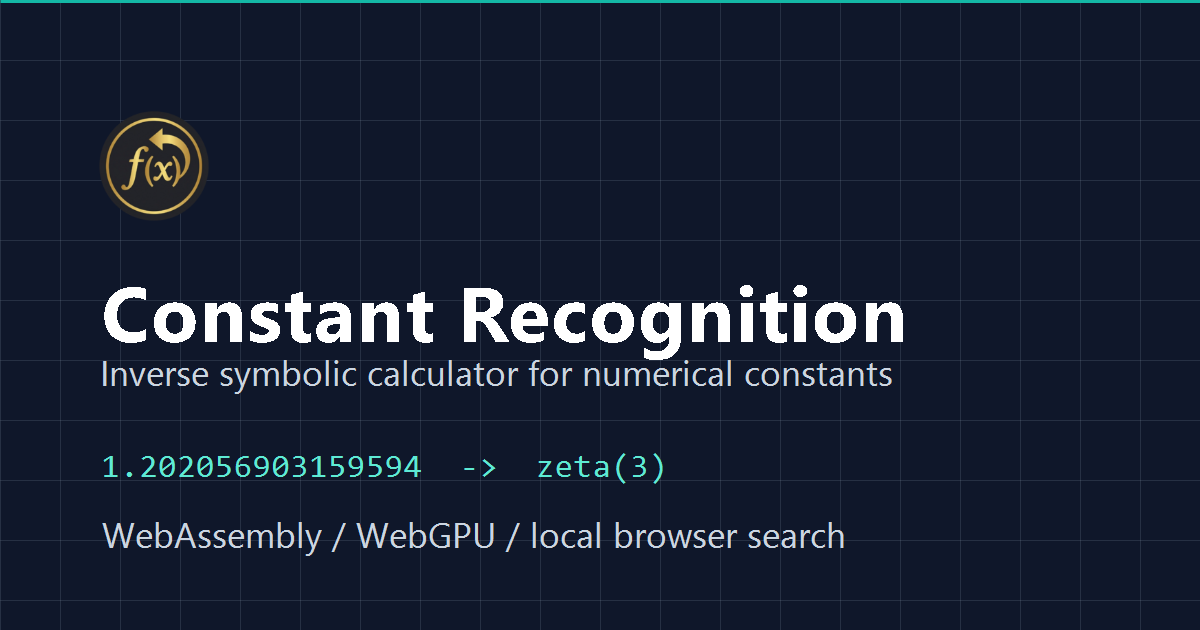
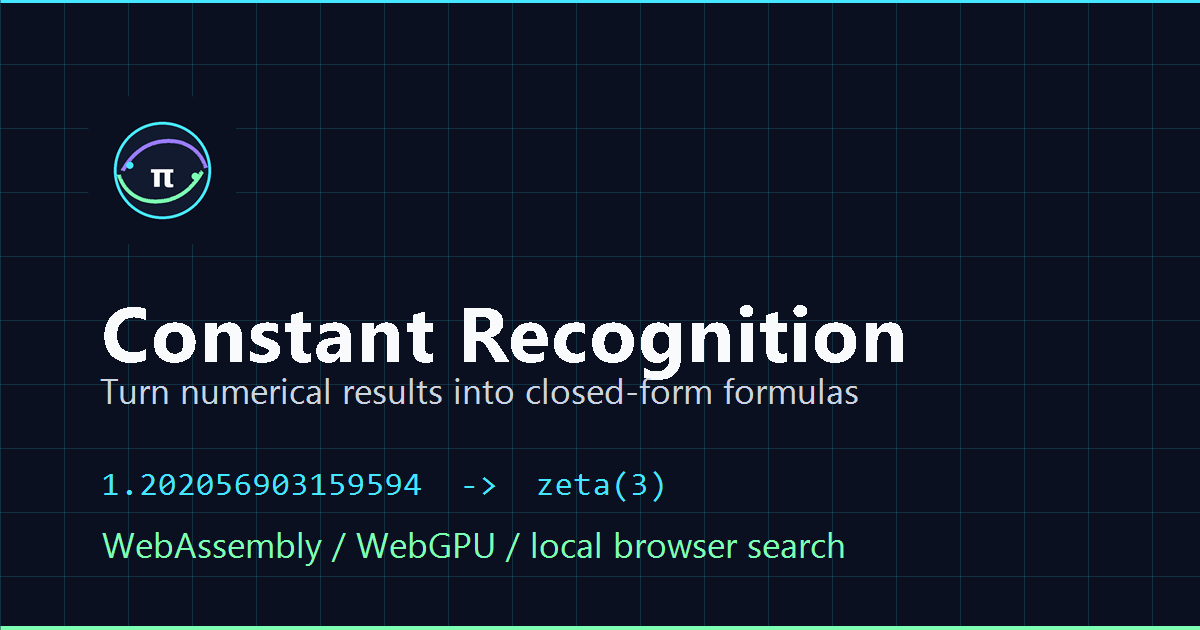
added

diff --git a/calculator_frontend/app/components/Footer.tsx b/calculator_frontend/app/components/Footer.tsx
@@ -7,7 +7,12 @@ export default function Footer() {
       <div className="mx-auto grid max-w-7xl gap-10 md:grid-cols-[1.4fr_1fr_1fr_1fr]">
         <div>
           <div className="mb-4 flex items-center gap-3">
-            <Image src="/favicon-192.png" alt="" width={36} height={36} />
+            <Image
+              src="/constant-recognizer-brand-pack/logo-mark.svg"
+              alt="Constant Recognition logo"
+              width={36}
+              height={36}
+            />
             <h3 className="text-base font-semibold text-slate-950">
               Constant Recognition
             </h3>

diff --git a/calculator_frontend/app/calculator/components/Sidebar.tsx b/calculator_frontend/app/calculator/components/Sidebar.tsx
@@ -144,14 +144,14 @@ export function Sidebar({
           <div className="flex items-center justify-between">
             <div className="flex items-center gap-3">
               <Image
-                src={withBasePath('/cdaaebfdc71641160f831c2a2fb564ce8d081055.png')}
-                alt="Logo" 
+                src={withBasePath('/constant-recognizer-brand-pack/logo-mark.svg')}
+                alt="Constant Recognition logo" 
                 width={40}
                 height={40}
                 className="w-10 h-10 rounded-lg object-cover"
               />
               <div>
-                <h1 className="font-semibold text-gray-900 dark:text-white text-sm">Constant Recognizer</h1>
+                <h1 className="font-semibold text-gray-900 dark:text-white text-sm">Constant Recognition</h1>
                 <p className="text-[10px] text-gray-500">Jagiellonian University</p>
               </div>
             </div>

diff --git a/calculator_frontend/app/components/Navbar.tsx b/calculator_frontend/app/components/Navbar.tsx
@@ -14,8 +14,8 @@ export default function Navbar() {
       <nav className="mx-auto flex h-16 max-w-7xl items-center justify-between px-4 sm:px-6 lg:px-8">
         <Link href="/" className="flex min-w-0 items-center gap-3">
           <Image
-            src="/favicon-192.png"
-            alt=""
+            src="/constant-recognizer-brand-pack/logo-mark.svg"
+            alt="Constant Recognition logo"
             width={34}
             height={34}
             className="h-8 w-8 shrink-0"

diff --git a/calculator_frontend/app/page.tsx b/calculator_frontend/app/page.tsx
@@ -80,7 +80,7 @@ export default function LandingPage() {
           <div className="max-w-4xl pt-6">
             <div className="mb-8 flex flex-wrap items-center gap-4 text-sm text-slate-300">
               <Image
-                src="/favicon-192.png"
+                src="/constant-recognizer-brand-pack/logo-mark.svg"
                 alt="Constant Recognition logo"
                 width={56}
                 height={56}

diff --git a/calculator_frontend/app/layout.tsx b/calculator_frontend/app/layout.tsx
@@ -66,6 +66,7 @@ export const metadata: Metadata = {
   },
   icons: {
     icon: [
+      { url: "/favicon.svg", type: "image/svg+xml" },
       { url: "/favicon.ico" },
       { url: "/favicon-192.png", sizes: "192x192", type: "image/png" },
       { url: "/icon-512.png", sizes: "512x512", type: "image/png" },

diff --git a/calculator_frontend/public/constant-recognizer-brand-pack/README.md b/calculator_frontend/public/constant-recognizer-brand-pack/README.md
@@ -1,0 +1,27 @@
+# Constant Recognition — logo & favicon pack
+
+Concept:
+- The mark represents a numerical constant being transformed into a closed-form expression.
+- The π symbol communicates mathematical constant recognition.
+- The two orbit-like strokes suggest search, transformation, approximation and symbolic discovery.
+- Palette: deep navy + cyan + green + violet, matching a scientific / computational product.
+
+Recommended file usage:
+- `logo-horizontal-dark.svg` — main landing page header on dark backgrounds.
+- `logo-horizontal-transparent.svg` — presentations, docs, GitHub README on light backgrounds.
+- `logo-mark.svg` — square app icon, social avatar, GitHub organization/project avatar.
+- `favicon.svg` — modern browser favicon.
+- `favicon.ico` — fallback favicon.
+- `favicon-32.png` / `favicon-192.png` / `apple-touch-icon.png` — browser/mobile icons.
+
+HTML head example:
+
+```html
+<link rel="icon" href="/favicon.svg" type="image/svg+xml" />
+<link rel="alternate icon" href="/favicon.ico" />
+<link rel="apple-touch-icon" href="/apple-touch-icon.png" />
+<meta name="theme-color" content="#0B1020" />
+```
+
+Suggested product tagline:
+“Turn numerical results into closed-form formulas.”